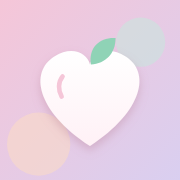
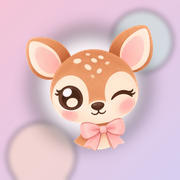
Butty como logótipo, resumo no Perfil, Saúde em 2 abas, plano opcional (#4)
* Retira o "aka nome" do cabeçalho

Claude-Session: https://claude.ai/code/session_0135yywCMwcmdSXmH19Kk7Wv

* Butty como logótipo, resumo no Perfil, Saúde em 2 abas, plano opcional

- A Butty passa a ser a cara da app: novo ícone/logótipo (splash,
  favicon, manifest) com a mascote e um brilho suave atrás.
- Ícone do veado no rodapé redesenhado com hastes simples, em vez das
  orelhas que pareciam um coelho.
- Resumo da Butty na aba Perfil, e uma menção a ela na aba Progresso
  (dias "radiantes" este mês).
- A aba Saúde passa a ter 2 sub-abas, como o Progresso: Alimentação e
  Sono.
- "O meu plano" no Perfil fica escondido por omissão, com um botão
  para o mostrar só quando quiseres.
- Brilho/luminosidade atrás das imagens da Butty (hero, resumo no
  Perfil, humor) para dar mais vida à app.

Claude-Session: https://claude.ai/code/session_0135yywCMwcmdSXmH19Kk7Wv

---------

diff --git a/js/app.js b/js/app.js
@@ -20,7 +20,7 @@ const state = {
   user: null,         // { id, name, focus, cardio, tone }
   pin: null,
   page: 'inicio',
-  sub: { progresso: 'resumo', perfil: 'dados' }, // sub-páginas: Progresso (resumo | medições) e Perfil (dados | medições)
+  sub: { progresso: 'resumo', perfil: 'dados', alimentacao: 'comida' }, // sub-páginas: Progresso (resumo | medições), Perfil (dados | medições) e Saúde (comida | sono)
   allGroups: false,   // mostra todos os grupos musculares, mesmo os que a pessoa não escolheu
   restDay: null,      // dia em que disse "hoje descanso"
   group: 'pernas',
@@ -39,6 +39,7 @@ const state = {
   editingGoal: false,
   cycleDay: null,
   sleepDate: null,
+  showPlanCard: false,
   data: { measurements: [], logs: [], gymDays: new Set(), profile: {}, sleep: [], moods: [], meals: [], custom: [], goals: new Map() }
 };
 
@@ -955,7 +956,6 @@ function renderAlimentacao() {
 
   pageEl.innerHTML = `
     ${mealCheckinHtml()}
-    ${sleepSectionHtml()}
     <div class="card hydration tilt">
       <h2>${icon('droplet', 18)} Hidratação</h2>
       ${waterHtml}
@@ -979,6 +979,10 @@ function renderAlimentacao() {
         </div>`).join('')}
       <p class="footnote">Valores de referência gerais, não substituem o acompanhamento de um nutricionista.</p>
     </div>`;
+}
+
+function renderSono() {
+  pageEl.innerHTML = sleepSectionHtml();
 }
 
 // ---------- Comi bem hoje? (check-in diário) ----------
@@ -1538,16 +1542,20 @@ function planCardHtml() {
   const p = planCfg();
   const o = OBJECTIVES[focusOf()] || OBJECTIVES.saude;
   const chips = (arr, fn, ic) => arr.length ? arr.map((x) => `<span class="plan-chip">${icon(ic, 13)}${esc(fn(x))}</span>`).join('') : '<span class="plan-none">Sem escolhas</span>';
+  const open = !!state.showPlanCard;
+  const toggleBtn = `<button class="link-btn" data-action="toggle-plan-card">${open ? 'Esconder' : 'Ver'}</button>`;
   if (isGaby()) {
     return `<div class="card" id="plan-card">
-      <h2>${icon('target', 18)} O meu objetivo</h2>
+      <div class="pm-head"><h2>${icon('target', 18)} O meu objetivo</h2>${toggleBtn}</div>
+      ${open ? `
       <p class="diet-note">O teu treino é o plano de 12 semanas definido para ti. O objetivo ajusta as sugestões de alimentação e as mensagens.</p>
       <div class="cy-block"><div class="dd-group-title">${esc(o[0])}</div><p>${esc(o[1])}</p></div>
-      <div class="plan-actions"><button class="save-btn alt" data-action="edit-objective">${icon('target', 16)} Alterar objetivo</button></div>
+      <div class="plan-actions"><button class="save-btn alt" data-action="edit-objective">${icon('target', 16)} Alterar objetivo</button></div>` : ''}
     </div>`;
   }
   return `<div class="card" id="plan-card">
-      <h2>${icon('sparkles', 18)} O meu plano</h2>
+      <div class="pm-head"><h2>${icon('sparkles', 18)} O meu plano</h2>${toggleBtn}</div>
+      ${open ? `
       <p class="diet-note">${p.done ? 'Estas são as escolhas que deram forma ao teu treino. Podes mudá-las quando quiseres.' : 'Ainda não personalizaste o teu plano. Responde a algumas perguntas e o treino passa a mostrar só o que te interessa.'}</p>
       ${p.done ? `
       <div class="plan-block"><div class="dd-group-title">Objetivo</div><div class="plan-chips"><span class="plan-chip strong">${icon(o[4], 13)}${esc(o[0])}</span></div></div>
@@ -1559,7 +1567,7 @@ function planCardHtml() {
       <div class="plan-actions">
         <button class="save-btn" data-action="${p.done ? 'edit-plan' : 'start-plan'}">${icon('sparkles', 16)} ${p.done ? 'Editar escolhas' : 'Personalizar o meu plano'}</button>
         <button class="save-btn alt" data-action="edit-objective">${icon('target', 16)} Alterar objetivo</button>
-      </div>
+      </div>` : ''}
     </div>`;
 }
 
@@ -1572,8 +1580,24 @@ function subTabsHtml(page, items) {
     </div>`;
 }
 const SUBS = {
-  progresso: [['resumo', 'Resumo', 'trend'], ['medicoes', 'Medições', 'activity']]
+  progresso: [['resumo', 'Resumo', 'trend'], ['medicoes', 'Medições', 'activity']],
+  alimentacao: [['comida', 'Alimentação', 'leaf'], ['sono', 'Sono', 'moon']]
 };
+
+function buttySummaryHtml() {
+  const { exerciseOk, sleepOk, mealOk } = buttyPillars();
+  const score = [exerciseOk, sleepOk, mealOk].filter(Boolean).length;
+  const lvl = BUTTY_LEVELS[score];
+  const dot = (ok) => `<span class="bs-dot${ok ? ' on' : ''}">${icon(ok ? 'check' : 'minus', 11)}</span>`;
+  return `<div class="card butty-summary tilt" data-action="go-page" data-page="inicio">
+    <div class="bs-glow" aria-hidden="true"></div>
+    <img class="bs-img" src="${BUTTY_IMG(lvl.img)}" alt="Butty, a mascote">
+    <div class="bs-text">
+      <h2>${esc(lvl.title)}</h2>
+      <div class="bs-dots">${dot(exerciseOk)}<span>Exercício</span>${dot(sleepOk)}<span>Sono</span>${dot(mealOk)}<span>Alimentação</span></div>
+    </div>
+  </div>`;
+}
 
 function renderPerfil() {
   const p = profileOf();
@@ -1583,6 +1607,7 @@ function renderPerfil() {
   const sel = (v, cur) => (v === cur ? ' selected' : '');
   pageEl.innerHTML = `
     ${perfilHeroHtml()}
+    ${buttySummaryHtml()}
     ${planCardHtml()}
     <div class="card" id="profile-form">
       <h2>${icon('user', 18)} Os meus dados</h2>
@@ -1860,6 +1885,41 @@ function dayDetailHtml(iso) {
       : `<button class="dd-toggle" data-action="toggle-day" data-date="${iso}">${marked ? 'Desmarcar dia de treino' : 'Marcar como dia de treino'}</button>`}`;
 }
 
+function buttyMonthStats() {
+  const now = new Date();
+  const y = now.getFullYear(), m = now.getMonth();
+  const daysInM = new Date(y, m + 1, 0).getDate();
+  const todayIso = today();
+  const sleepMap = new Map(state.data.sleep.map((s) => [s.day, s]));
+  const mealMap = new Map(state.data.meals.map((x) => [x.day, x]));
+  const trainedSet = trainedDaySet();
+  let radiant = 0;
+  for (let d = 1; d <= daysInM; d++) {
+    const iso = `${y}-${pad2(m + 1)}-${pad2(d)}`;
+    if (iso > todayIso) break;
+    const ex = trainedSet.has(iso);
+    const sl = sleepMap.get(iso); const slOk = !!sl && Number(sl.hours) >= 7;
+    const me = mealMap.get(iso); const meOk = !!me && Number(me.ate) >= 1;
+    if (ex && slOk && meOk) radiant++;
+  }
+  return { radiant };
+}
+
+function buttyProgressHtml() {
+  const { radiant } = buttyMonthStats();
+  const { exerciseOk, sleepOk, mealOk } = buttyPillars();
+  const score = [exerciseOk, sleepOk, mealOk].filter(Boolean).length;
+  const lvl = BUTTY_LEVELS[score];
+  return `<div class="card butty-summary tilt" data-action="go-page" data-page="inicio">
+    <div class="bs-glow" aria-hidden="true"></div>
+    <img class="bs-img" src="${BUTTY_IMG(lvl.img)}" alt="Butty, a mascote">
+    <div class="bs-text">
+      <h2>Como anda a Butty</h2>
+      <p class="diet-note">${radiant > 0 ? `Este mês já houve <b>${radiant}</b> dia${radiant === 1 ? '' : 's'} em que a Butty ficou radiante (exercício, sono e alimentação em dia).` : 'Ainda não houve nenhum dia completo este mês — exercício, sono e alimentação em dia deixam a Butty radiante.'}</p>
+    </div>
+  </div>`;
+}
+
 function renderProgresso() {
   const year = state.calMonth.getFullYear(), month = state.calMonth.getMonth();
   const key = `${year}-${pad2(month + 1)}`;
@@ -1920,6 +1980,8 @@ function renderProgresso() {
       <div class="story-chips">${chips.join('')}</div>
       <div class="story-mission">${icon('target', 16)}<span>${esc(story.mission)}</span></div>
     </div>
+
+    ${buttyProgressHtml()}
 
     <div class="card">
       <div class="cal-summary">
@@ -2067,7 +2129,8 @@ function renderNav() {
 
 // Medições vive dentro de Progresso e de Perfil, como segunda página de cada uma
 const RENDERERS = {
-  inicio: renderInicio, treino: renderTreino, alimentacao: renderAlimentacao,
+  inicio: renderInicio, treino: renderTreino,
+  alimentacao: () => { if (state.sub.alimentacao === 'sono') renderSono(); else renderAlimentacao(); pageEl.insertAdjacentHTML('afterbegin', subTabsHtml('alimentacao', SUBS.alimentacao)); },
   progresso: () => { if (state.sub.progresso === 'medicoes') pageEl.innerHTML = medicaoHtml(); else renderProgresso(); pageEl.insertAdjacentHTML('afterbegin', subTabsHtml('progresso', SUBS.progresso)); },
   perfil: renderPerfil
 };
@@ -2169,6 +2232,7 @@ function onClick(ev) {
     case 'save-mood': saveMood(el); return;
     case 'save-profile': saveProfile(el); return;
     case 'period-today': periodStartedToday(el); return;
+    case 'toggle-plan-card': state.showPlanCard = !state.showPlanCard; render(); return;
     case 'cycle-day': state.cycleDay = d.date; render(); return;
     case 'edit-log':
       state.editingLog = Number(d.id); state.openExercise = d.ex; state.confirm = null;
@@ -2397,9 +2461,9 @@ async function startSession(profile, pin) {
   state.pin = pin;
   applyData(out);
   Object.assign(state, {
-    page: 'inicio', sub: { progresso: 'resumo', perfil: 'dados' }, allGroups: false, restDay: null, group: 'pernas', week: currentWeek(), session: pickDefaultSession(currentWeek()), metric: 'weight', openExercise: null, showMeanings: false,
+    page: 'inicio', sub: { progresso: 'resumo', perfil: 'dados', alimentacao: 'comida' }, allGroups: false, restDay: null, group: 'pernas', week: currentWeek(), session: pickDefaultSession(currentWeek()), metric: 'weight', openExercise: null, showMeanings: false,
     calMonth: startOfMonth(new Date()), selectedDay: null, editingLog: null, editingMeas: null, confirm: null,
-    addingExercise: false, editingGoal: false, cycleDay: null, sleepDate: null
+    addingExercise: false, editingGoal: false, cycleDay: null, sleepDate: null, showPlanCard: false
   });
   try { localStorage.setItem(SESSION_KEY, JSON.stringify({ profile, pin })); } catch { /* ignora */ }
 

diff --git a/css/style.css b/css/style.css
@@ -669,7 +669,7 @@ button { font-family:inherit; color:inherit; }
 .pc-orb { display:grid; place-items:center; width:52px; height:52px; border-radius:18px; background:#fff; color:var(--pinkDark); box-shadow:0 6px 16px rgba(181,121,142,.25); animation:float 3.2s ease-in-out infinite; }
 .pc-text h2 { margin-bottom:2px; }
 .pc-text p { font-size:12.5px; color:#5A4358; line-height:1.55; }
-.plan-mini .pm-head { display:flex; justify-content:space-between; align-items:center; }
+.pm-head { display:flex; justify-content:space-between; align-items:center; margin-bottom:4px; }
 .plan-mini h2 { display:flex; align-items:center; gap:8px; margin-bottom:8px; }
 
 .home-tiles { display:grid; grid-template-columns:1fr 1fr; gap:10px; }
@@ -849,8 +849,9 @@ body.wl-open { overflow:hidden; }
 
 /* ---------- Butty ---------- */
 .butty-card { background:linear-gradient(135deg,rgba(251,220,196,.5),rgba(245,198,216,.4)); }
-.butty-head { display:flex; align-items:center; gap:14px; margin-bottom:12px; }
-.butty-img { width:76px; height:76px; object-fit:contain; flex-shrink:0; filter:drop-shadow(0 6px 10px rgba(181,121,142,.25)); animation:rise .5s var(--ease) both; }
+.butty-head { position:relative; display:flex; align-items:center; gap:14px; margin-bottom:12px; }
+.butty-head::before { content:''; position:absolute; left:2px; top:50%; width:92px; height:92px; transform:translateY(-50%); background:radial-gradient(circle, rgba(255,255,255,.95) 0%, rgba(255,241,246,.6) 45%, rgba(255,241,246,0) 72%); filter:blur(2px); z-index:0; }
+.butty-img { position:relative; z-index:1; width:76px; height:76px; object-fit:contain; flex-shrink:0; filter:drop-shadow(0 0 10px rgba(255,255,255,.9)) drop-shadow(0 6px 10px rgba(181,121,142,.25)); animation:rise .5s var(--ease) both; }
 .butty-text h2 { margin-bottom:3px; }
 .butty-text p { font-size:12.5px; color:var(--soft); line-height:1.5; }
 .butty-rows { display:flex; flex-direction:column; gap:6px; }
@@ -862,10 +863,20 @@ body.wl-open { overflow:hidden; }
 .br-note { font-size:11px; color:var(--soft); }
 .butty-row.on .br-note { color:var(--mintDark); font-weight:600; }
 
+.butty-summary { position:relative; display:flex; align-items:center; gap:14px; background:linear-gradient(135deg,rgba(251,220,196,.4),rgba(217,207,240,.35)); cursor:pointer; overflow:hidden; }
+.bs-glow { position:absolute; left:-10px; top:50%; width:100px; height:100px; transform:translateY(-50%); background:radial-gradient(circle, rgba(255,255,255,.9) 0%, rgba(255,241,246,.5) 45%, rgba(255,241,246,0) 72%); filter:blur(2px); z-index:0; }
+.bs-img { position:relative; z-index:1; width:60px; height:60px; object-fit:contain; flex-shrink:0; filter:drop-shadow(0 0 9px rgba(255,255,255,.9)) drop-shadow(0 4px 8px rgba(181,121,142,.22)); }
+.bs-text { position:relative; z-index:1; flex:1; }
+.bs-text h2 { font-size:14.5px; margin-bottom:5px; }
+.bs-dots { display:flex; align-items:center; gap:4px; flex-wrap:wrap; font-size:10px; color:var(--soft); }
+.bs-dot { display:grid; place-items:center; width:16px; height:16px; border-radius:999px; background:#EFE3EC; color:#B69BB6; }
+.bs-dot.on { background:var(--mint); color:var(--mintDark); }
+.bs-dots span { margin-right:6px; }
+
 /* ---------- Como te sentiste hoje? ---------- */
 .mood-row { display:flex; gap:6px; justify-content:space-between; }
 .mood-btn { flex:1; display:flex; flex-direction:column; align-items:center; gap:4px; padding:8px 2px 7px; border-radius:16px; border:1.5px solid var(--line); background:rgba(255,255,255,.7); font-family:inherit; font-size:9.5px; font-weight:600; color:var(--soft); cursor:pointer; transition:all .25s var(--ease); }
-.mood-btn img { width:38px; height:38px; object-fit:contain; }
+.mood-btn img { width:38px; height:38px; object-fit:contain; filter:drop-shadow(0 0 7px rgba(255,255,255,.85)); }
 .mood-btn:active { transform:scale(.92); }
 .mood-btn.on { background:linear-gradient(135deg,rgba(245,198,216,.9),rgba(217,207,240,.6)); border-color:transparent; color:var(--pinkDeep); box-shadow:0 6px 14px rgba(181,121,142,.28); }
 .ex-confirm { margin:4px 8px 0; animation:rise .35s var(--ease) both; }

diff --git a/js/icons.js b/js/icons.js
@@ -36,7 +36,7 @@ const PATHS = {
   book: '<path d="M4 19.5A2.5 2.5 0 0 1 6.5 17H20"/><path d="M6.5 2H20v20H6.5A2.5 2.5 0 0 1 4 19.5v-15A2.5 2.5 0 0 1 6.5 2z"/>',
   'volume-on': '<path d="M11 5 6 9H2v6h4l5 4V5z"/><path d="M15.5 8.5a5 5 0 0 1 0 7M19 5a10 10 0 0 1 0 14"/>',
   'volume-off': '<path d="M11 5 6 9H2v6h4l5 4V5z"/><path d="m22 9-6 6M16 9l6 6"/>',
-  deer: '<circle cx="12" cy="14.5" r="5.7"/><path d="M7.3 9.5c-1.3-2.6-1-5.8 0-6.3 1-.5 2.6 1 3.4 3.8"/><path d="M16.7 9.5c1.3-2.6 1-5.8 0-6.3-1-.5-2.6 1-3.4 3.8"/><path d="M9.6 14.5h.01M14.4 14.5h.01"/><path d="M11 17.3h2"/>'
+  deer: '<circle cx="12" cy="15.3" r="5.3"/><path d="M9.3 10.8 7 4"/><path d="M7.8 7.6 5.3 6.6"/><path d="M14.7 10.8 17 4"/><path d="M16.2 7.6 18.7 6.6"/><path d="M9.8 15.3h.01M14.2 15.3h.01"/><path d="M11 17.8h2"/>'
 };
 
 export function icon(name, size = 18) {

diff --git a/sw.js b/sw.js
@@ -2,7 +2,7 @@
 // Ficheiros da app: rede primeiro (vês sempre a versão mais recente) e cache
 // só quando estás offline. Tipos de letra: cache primeiro.
 // Os dados (Supabase) nunca passam por aqui: vêm sempre da rede.
-const CACHE = 'plano-treino-v18';
+const CACHE = 'plano-treino-v19';
 const SHELL = [
   './', 'index.html', 'manifest.webmanifest',
   'css/style.css',
